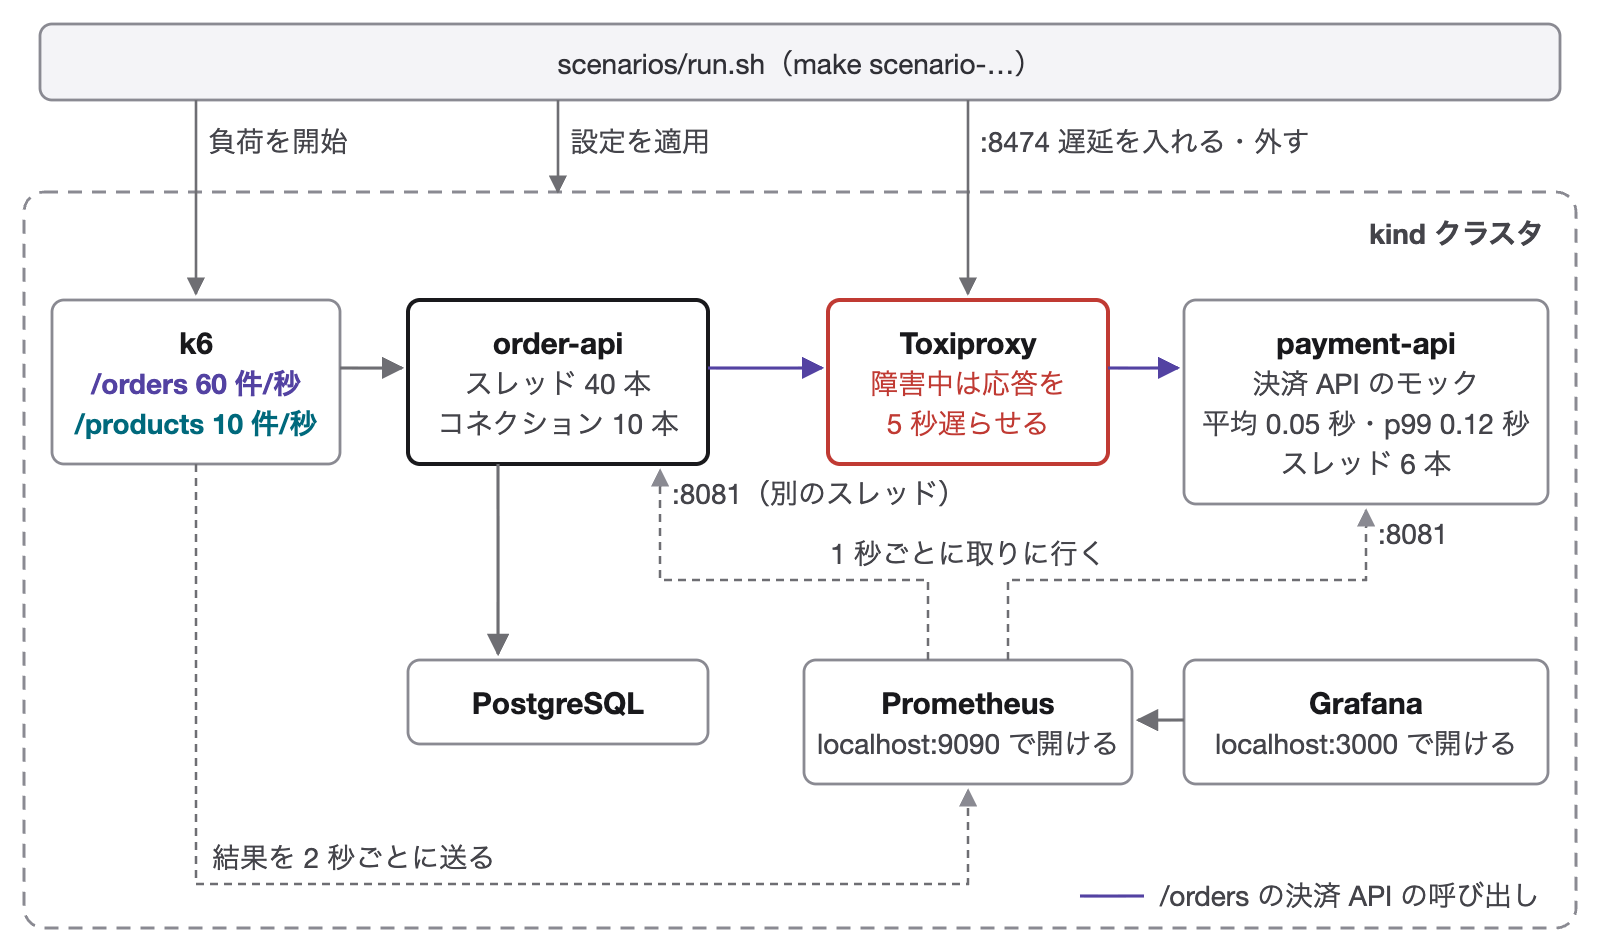
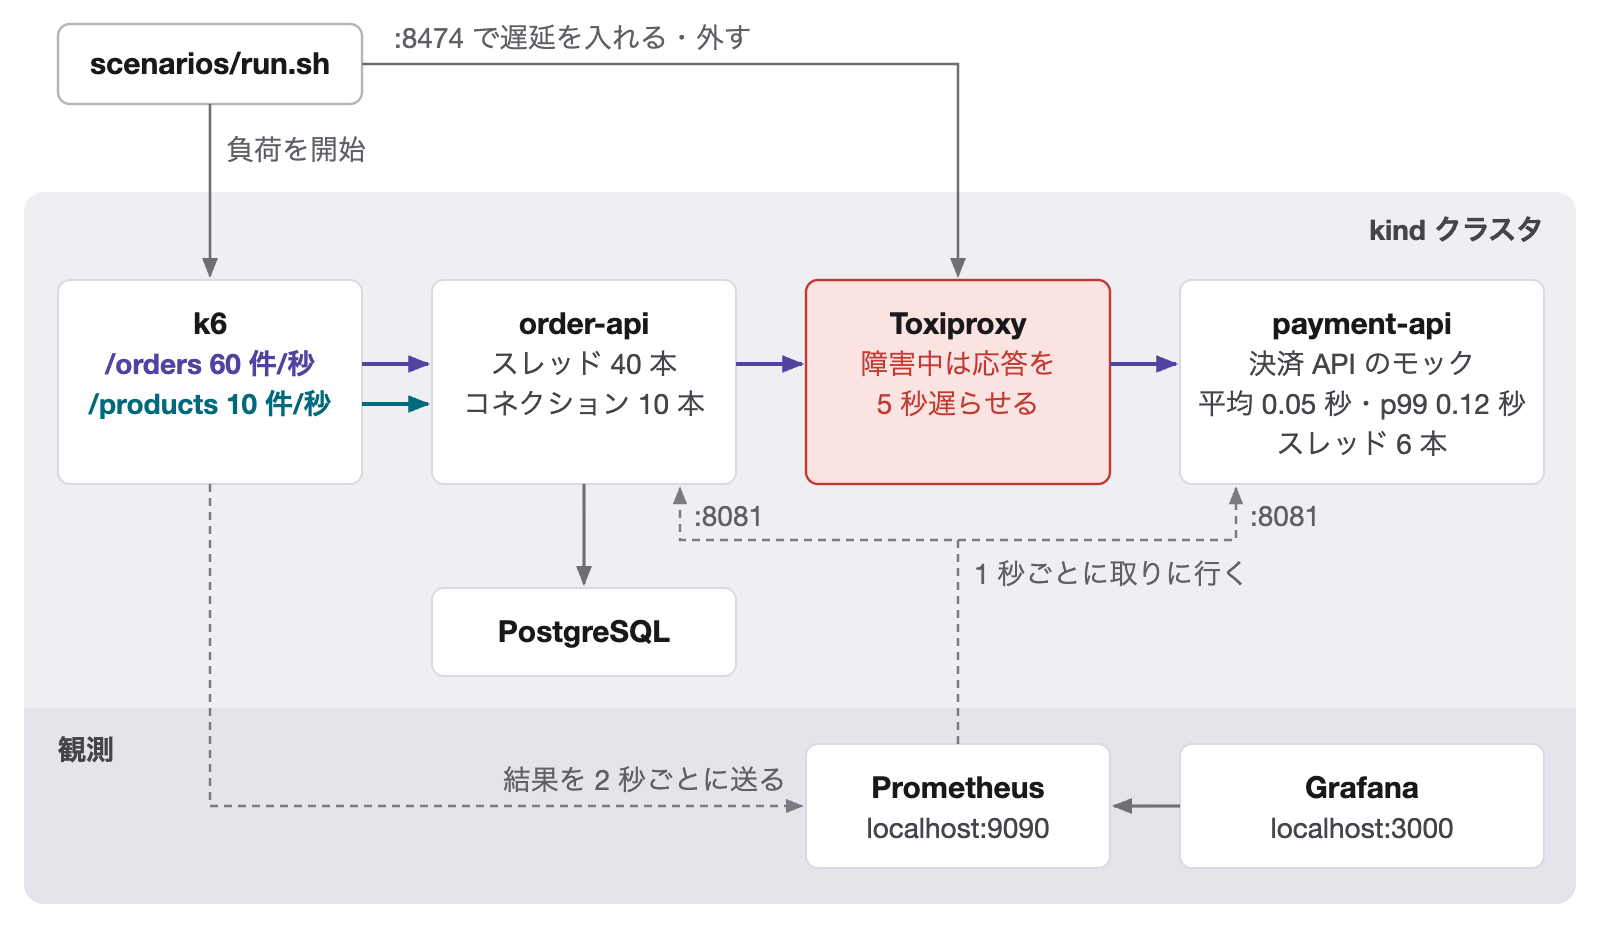
Redraw the architecture figure on panels and a four-column grid
Cards of equal height on the cluster panel, an observability band at the
bottom, three kinds of line (coloured request lines from k6's rows, grey
control lines, dotted metrics with one T-shaped scrape line), fixed-size
arrowheads and no legend. Follows an aesthetic review that scored the
previous version 5–6/10.

diff --git a/tools/diagrams/architecture.html b/tools/diagrams/architecture.html
@@ -6,63 +6,89 @@
 <link rel="stylesheet" href="explainer.css">
 </head>
 <body>
-<!-- 上段：要求の経路（k6 → order-api → Toxiproxy → payment-api）。下段：DB と観測。クラスタの外の run.sh が負荷・設定・遅延を操作する。紫は /orders だけが通る線、赤は障害を入れるところ -->
+<!-- kind クラスタを薄い灰の面に、部品を同じ高さの白いカードで描く（ほかの図と同じく、線ではなく面で区切る）。4 列の格子：幅 152・152・152・182、間 35。上段は要求の経路、その下に DB、一番下の帯が観測。線は 3 種類：要求（色つき 2px）、操作（灰の細線）、メトリクス（点線）。k6 の色つきの行から同じ色の線を出し、紫（/orders）だけが決済 API まで続く -->
 <svg id="fig" xmlns="http://www.w3.org/2000/svg"></svg>
 <script src="explainer.js"></script>
 <script>
   const svg = document.getElementById('fig');
-  defs(svg);
-  const COL = { k6: [26, 144], order: [204, 150], toxi: [414, 140], pay: [592, 182] };
-  const Y1 = 150, Y2 = 330;
-
-  // クラスタの外：run.sh
-  const host = box(svg, 20, 12, 760, [['body', tr('scenarios/run.sh（make scenario-…）', 'scenarios/run.sh (make scenario-…)')]], { fill: '#f4f4f7', pad: 12 });
-  el(svg, 'rect', { class: 'scope', x: 12, y: 96, width: 776, height: 368, rx: 10 });
-  // run.sh からの矢印と交わらないよう、右上に置く
-  text(svg, 772, 122, 'small b end', tr('kind クラスタ', 'kind cluster'));
-
-  // 上段
-  const k6 = box(svg, COL.k6[0], Y1, COL.k6[1], [['name', 'k6'], ['small ord b', tr('/orders 60 件/秒', '/orders 60 req/s')], ['small prd b', tr('/products 10 件/秒', '/products 10 req/s')]]);
-  const order = box(svg, COL.order[0], Y1, COL.order[1], [['name', 'order-api'], ['small', tr('スレッド 40 本', '40 threads')], ['small', tr('コネクション 10 本', '10 DB connections')]], { stroke: '#19191c', width: 2 });
-  const toxi = box(svg, COL.toxi[0], Y1, COL.toxi[1], [['name', 'Toxiproxy'], ['small bad', tr('障害中は応答を', 'delays responses')], ['small bad', tr('5 秒遅らせる', 'by 5 s (fault)')]], { stroke: '#c03a33', width: 2 });
-  const pay = box(svg, COL.pay[0], Y1, COL.pay[1], [['name', 'payment-api'], ['small', tr('決済 API のモック', 'payment API mock')], ['small', tr('平均 0.05 秒・p99 0.12 秒', 'mean 0.05 s · p99 0.12 s')], ['small', tr('スレッド 6 本', '6 threads')]]);
-
-  // 下段
-  const db = box(svg, COL.order[0], Y2, COL.order[1], [['name', 'PostgreSQL']]);
-  const prom = box(svg, COL.toxi[0] - 12, Y2, COL.toxi[1] + 24, [['name', 'Prometheus'], ['small', tr('localhost:9090 で開ける', 'open at localhost:9090')]]);
-  const graf = box(svg, COL.pay[0], Y2, COL.pay[1], [['name', 'Grafana'], ['small', tr('localhost:3000 で開ける', 'open at localhost:3000')]]);
-
-  // 要求の経路
-  const ky = Y1 + 34;
-  el(svg, 'line', { class: 'ln', x1: k6.r, y1: ky, x2: order.x - 3, y2: ky, 'marker-end': 'url(#arrow)' });
-  el(svg, 'line', { class: 'ln ord', x1: order.r, y1: ky, x2: toxi.x - 3, y2: ky, 'marker-end': 'url(#arrow-ord)' });
-  el(svg, 'line', { class: 'ln ord', x1: toxi.r, y1: ky, x2: pay.x - 3, y2: ky, 'marker-end': 'url(#arrow-ord)' });
-  el(svg, 'line', { class: 'ln', x1: order.cx - 30, y1: order.b, x2: order.cx - 30, y2: db.y - 3, 'marker-end': 'url(#arrow)' });
-  // Grafana が Prometheus に問い合わせる（矢印は始める側から）
-  el(svg, 'line', { class: 'ln', x1: graf.x, y1: prom.y + 30, x2: prom.r + 3, y2: prom.y + 30, 'marker-end': 'url(#arrow)' });
-
-  // run.sh からの操作
-  // 設定はクラスタ全体（order-api と payment-api）に当てるので、矢印はクラスタの枠で止める
-  const ops = [[k6.cx, k6.y, tr('負荷を開始', 'starts the load')], [order.cx, 96 + 3, tr('設定を適用', 'applies the scenario')], [toxi.cx, toxi.y, tr(':8474 遅延を入れる・外す', ':8474 adds / removes the delay')]];
-  for (const [x, y, s] of ops) {
-    el(svg, 'line', { class: 'ln thin', x1: x, y1: host.b, x2: x, y2: y - 3, 'marker-end': 'url(#arrow)' });
-    text(svg, x + 6, host.b + 26, 'small', s);
+  // 矢じりは線の太さによらず同じ大きさにする
+  const d = el(svg, 'defs');
+  for (const [id, c, size] of [['h-gray', '#6e6e73', 10], ['h-ord', '#5342a2', 11], ['h-prd', '#00697c', 11], ['h-met', '#7a7a82', 9]]) {
+    const m = el(d, 'marker', { id, viewBox: '0 0 10 10', refX: 9, refY: 5, markerWidth: size, markerHeight: size, markerUnits: 'userSpaceOnUse', orient: 'auto' });
+    el(m, 'path', { d: 'M0 1L10 5L0 9z', fill: c });
   }
 
-  // メトリクス（灰の点線）。矢印は始める側から向ける：order-api と payment-api の 8081 番は Prometheus が取りに行き、k6 は自分から送る
-  const MY = 290;
-  el(svg, 'path', { class: 'ln thin dot', d: `M${prom.cx - 20} ${prom.y} V${MY} H${order.r - 24} V${order.b + 3}`, 'marker-end': 'url(#arrow-light)' });
-  text(svg, order.r - 18, order.b + 20, 'small', tr(':8081（別のスレッド）', ':8081 (separate threads)'));
-  el(svg, 'path', { class: 'ln thin dot', d: `M${prom.cx + 20} ${prom.y} V${MY} H${pay.cx} V${pay.b + 3}`, 'marker-end': 'url(#arrow-light)' });
-  text(svg, pay.cx + 6, pay.b + 20, 'small', ':8081');
-  text(svg, prom.cx, MY - 8, 'small mid', tr('1 秒ごとに取りに行く', 'scraped every second'));
-  const KY = 442;
-  el(svg, 'path', { class: 'ln thin dot', d: `M${k6.cx} ${k6.b} V${KY} H${prom.cx} V${prom.b + 3}`, 'marker-end': 'url(#arrow-light)' });
-  text(svg, k6.cx + 8, KY - 8, 'small', tr('結果を 2 秒ごとに送る', 'pushes results every 2 s'));
-  // 凡例：紫の線は /orders の決済 API の呼び出しだけが通る
-  el(svg, 'line', { class: 'ln ord', x1: 540, y1: 448, x2: 572, y2: 448 });
-  text(svg, 580, 453, 'small', tr('/orders の決済 API の呼び出し', 'payment calls from /orders'));
-  canvas(svg, 800, 476);
+  /** カード：行を上ぞろえで書く（名前の行が、段をまたいで 1 本の線にそろう） */
+  function card(x, y, w, h, lines, { stroke = '#d9d9df', width = 1, fill = '#ffffff' } = {}) {
+    el(svg, 'rect', { x, y, width: w, height: h, rx: 6, fill, stroke, 'stroke-width': width });
+    lines.forEach(([cls, s], i) => text(svg, x + w / 2, y + 27 + i * 20, `${cls} mid`, s));
+    return { x, y, w, h, cx: x + w / 2, cy: y + h / 2, r: x + w, b: y + h };
+  }
+
+  // 格子
+  const X0 = 29, G = 35, W = [152, 152, 152, 182];
+  const cx = [X0];
+  for (let i = 1; i < 4; i++) cx.push(cx[i - 1] + W[i - 1] + G);
+  const PX = 12, PY = 96, PW = 776, PH = 356;
+
+  // クラスタ（面）。カードより先に描く
+  el(svg, 'rect', { class: 'pool', x: PX, y: PY, width: PW, height: PH, rx: 10 });
+  // run.sh からの矢印と交わらないよう、見出しは右上に置く
+  text(svg, PX + PW - 16, PY + 24, 'small b end', tr('kind クラスタ', 'kind cluster'));
+
+  // 観測の帯（面の下の端まで、一段濃く）
+  const BY = 354, r = 10, B = PY + PH;
+  el(svg, 'path', { d: `M${PX} ${BY} H${PX + PW} V${B - r} A${r} ${r} 0 0 1 ${PX + PW - r} ${B} H${PX + r} A${r} ${r} 0 0 1 ${PX} ${B - r} Z`, fill: '#e4e4ea' });
+  text(svg, X0, BY + 26, 'small b', tr('観測', 'Metrics'));
+
+  // クラスタの外：run.sh（k6 の真上）
+  const host = { x: X0, y: 12, w: W[0], h: 40 };
+  host.r = host.x + host.w; host.b = host.y + host.h; host.cy = host.y + host.h / 2;
+  el(svg, 'rect', { x: host.x, y: host.y, width: host.w, height: host.h, rx: 6, fill: '#ffffff', stroke: '#b4b4bc', 'stroke-width': 1.2 });
+  text(svg, host.x + host.w / 2, host.y + 25, 'name mid', 'scenarios/run.sh');
+
+  // 上段：要求の経路
+  const Y1 = 140, H1 = 102;
+  const k6 = card(cx[0], Y1, W[0], H1, [['name', 'k6'], ['small ord b', tr('/orders 60 件/秒', '/orders 60 req/s')], ['small prd b', tr('/products 10 件/秒', '/products 10 req/s')]]);
+  const order = card(cx[1], Y1, W[1], H1, [['name', 'order-api'], ['small', tr('スレッド 40 本', '40 threads')], ['small', tr('コネクション 10 本', '10 DB connections')]]);
+  const toxi = card(cx[2], Y1, W[2], H1, [['name', 'Toxiproxy'], ['small bad', tr('障害中は応答を', 'delays responses')], ['small bad', tr('5 秒遅らせる', 'by 5 s')]], { stroke: '#c03a33', width: 1.2, fill: '#fbe3e1' });
+  const pay = card(cx[3], Y1, W[3], H1, [['name', 'payment-api'], ['small', tr('決済 API のモック', 'payment API mock')], ['small', tr('平均 0.05 秒・p99 0.12 秒', 'mean 0.05 s · p99 0.12 s')], ['small', tr('スレッド 6 本', '6 threads')]]);
+
+  // 要求：k6 の色つきの行から、その色の線を出す。紫（/orders）だけが決済 API まで続く
+  const yo = Y1 + 27 + 20 - 5, yp = yo + 20;
+  el(svg, 'line', { class: 'ln ord req', x1: k6.r, y1: yo, x2: order.x - 2, y2: yo, 'marker-end': 'url(#h-ord)' });
+  el(svg, 'line', { class: 'ln prd req', x1: k6.r, y1: yp, x2: order.x - 2, y2: yp, 'marker-end': 'url(#h-prd)' });
+  el(svg, 'line', { class: 'ln ord req', x1: order.r, y1: yo, x2: toxi.x - 2, y2: yo, 'marker-end': 'url(#h-ord)' });
+  el(svg, 'line', { class: 'ln ord req', x1: toxi.r, y1: yo, x2: pay.x - 2, y2: yo, 'marker-end': 'url(#h-ord)' });
+
+  // DB（order-api の真下）
+  const CH = 270;
+  const db = card(cx[1], CH + 24, W[1], 44, [['name', 'PostgreSQL']]);
+  el(svg, 'line', { class: 'ln', x1: order.cx, y1: order.b, x2: order.cx, y2: db.y - 2, 'marker-end': 'url(#h-gray)' });
+
+  // 観測：Prometheus と Grafana（Grafana が Prometheus に問い合わせる）
+  const Y3 = BY + 18, H3 = 62;
+  const prom = card(cx[2], Y3, W[2], H3, [['name', 'Prometheus'], ['small', 'localhost:9090']]);
+  const graf = card(cx[3], Y3, W[3], H3, [['name', 'Grafana'], ['small', 'localhost:3000']]);
+  el(svg, 'line', { class: 'ln', x1: graf.x, y1: prom.cy, x2: prom.r + 2, y2: prom.cy, 'marker-end': 'url(#h-gray)' });
+
+  // メトリクス：Prometheus から 1 本出て T 字に分かれ、order-api と payment-api の 8081 番を取りに行く。k6 は自分から送る
+  const dl = order.r - 28, dr = pay.x + 28;
+  el(svg, 'path', { class: 'ln met', d: `M${prom.cx} ${prom.y} V${CH} H${dl} V${order.b + 2}`, 'marker-end': 'url(#h-met)' });
+  el(svg, 'path', { class: 'ln met', d: `M${prom.cx} ${CH} H${dr} V${pay.b + 2}`, 'marker-end': 'url(#h-met)' });
+  text(svg, dl + 7, order.b + 21, 'note', ':8081');
+  text(svg, dr + 7, pay.b + 21, 'note', ':8081');
+  text(svg, prom.cx + 8, CH + 22, 'note', tr('1 秒ごとに取りに行く', 'scraped every second'));
+  el(svg, 'path', { class: 'ln met', d: `M${k6.cx} ${k6.b} V${prom.cy} H${prom.x - 2}`, 'marker-end': 'url(#h-met)' });
+  text(svg, prom.x - 10, prom.cy - 8, 'note end', tr('結果を 2 秒ごとに送る', 'pushes results every 2 s'));
+
+  // run.sh からの操作
+  el(svg, 'line', { class: 'ln thin', x1: k6.cx, y1: host.b, x2: k6.cx, y2: k6.y - 2, 'marker-end': 'url(#h-gray)' });
+  text(svg, k6.cx + 8, 80, 'note', tr('負荷を開始', 'starts the load'));
+  el(svg, 'path', { class: 'ln thin', d: `M${host.r} ${host.cy} H${toxi.cx} V${toxi.y - 2}`, 'marker-end': 'url(#h-gray)' });
+  text(svg, host.r + 16, host.cy - 8, 'note', tr(':8474 で遅延を入れる・外す', 'adds / removes the delay via :8474'));
+
+  canvas(svg, 800, PY + PH + 12);
 </script>
 </body>
 </html>

diff --git a/tools/diagrams/explainer.js b/tools/diagrams/explainer.js
@@ -46,9 +46,12 @@ function canvas(svg, w, h) {
 }
 
 /** 角の丸い箱を描き、行を中央にそろえて書く。lines は [クラス, 文字] の並び。箱の位置と大きさを返す */
-function box(parent, x, y, w, lines, { stroke = '#8a8a92', fill = '#ffffff', width = 1.4, pad = 14, gap = 20 } = {}) {
-  const h = pad * 2 + 14 + (lines.length - 1) * gap;
+function box(parent, x, y, w, lines, { stroke = '#8a8a92', fill = '#ffffff', width = 1.4, pad = 14, gap = 20, h } = {}) {
+  // h を渡すと、その高さの中で行を上下の中央にそろえる（同じ段の箱の大きさをそろえるため）
+  const inner = 14 + (lines.length - 1) * gap;
+  h = h ?? pad * 2 + inner;
   el(parent, 'rect', { x, y, width: w, height: h, rx: 6, fill, stroke, 'stroke-width': width });
-  lines.forEach(([cls, s], i) => text(parent, x + w / 2, y + pad + 13 + i * gap, `${cls} mid`, s));
+  const top = y + (h - inner) / 2;
+  lines.forEach(([cls, s], i) => text(parent, x + w / 2, top + 13 + i * gap, `${cls} mid`, s));
   return { x, y, w, h, cx: x + w / 2, cy: y + h / 2, r: x + w, b: y + h };
 }

diff --git a/tools/diagrams/explainer.css b/tools/diagrams/explainer.css
@@ -35,6 +35,7 @@ svg {
 .slot.used { fill: #6a55d6; stroke: #6a55d6; }
 .ln { stroke: #6e6e73; stroke-width: 1.6; fill: none; }
 .ln.ord { stroke: #5342a2; fill: none; }
+.ln.main { stroke-width: 2.6; }
 .ln.prd { stroke: #00697c; fill: none; }
 .ln.bad { stroke: #c03a33; stroke-width: 2; fill: none; }
 .cut { stroke: #19191c; stroke-width: 1.2; stroke-dasharray: 4 3; }
@@ -47,3 +48,6 @@ svg {
 .ln.thin { stroke-width: 1.3; }
 .ln.dot { stroke-dasharray: 4 3; }
 .scope { fill: none; stroke: #8a8a92; stroke-width: 1.4; stroke-dasharray: 7 5; }
+.note { font-size: 14px; fill: #5f5f66; }
+.ln.req { stroke-width: 2; }
+.ln.met { stroke: #7a7a82; stroke-width: 1.3; stroke-dasharray: 4 3; }
